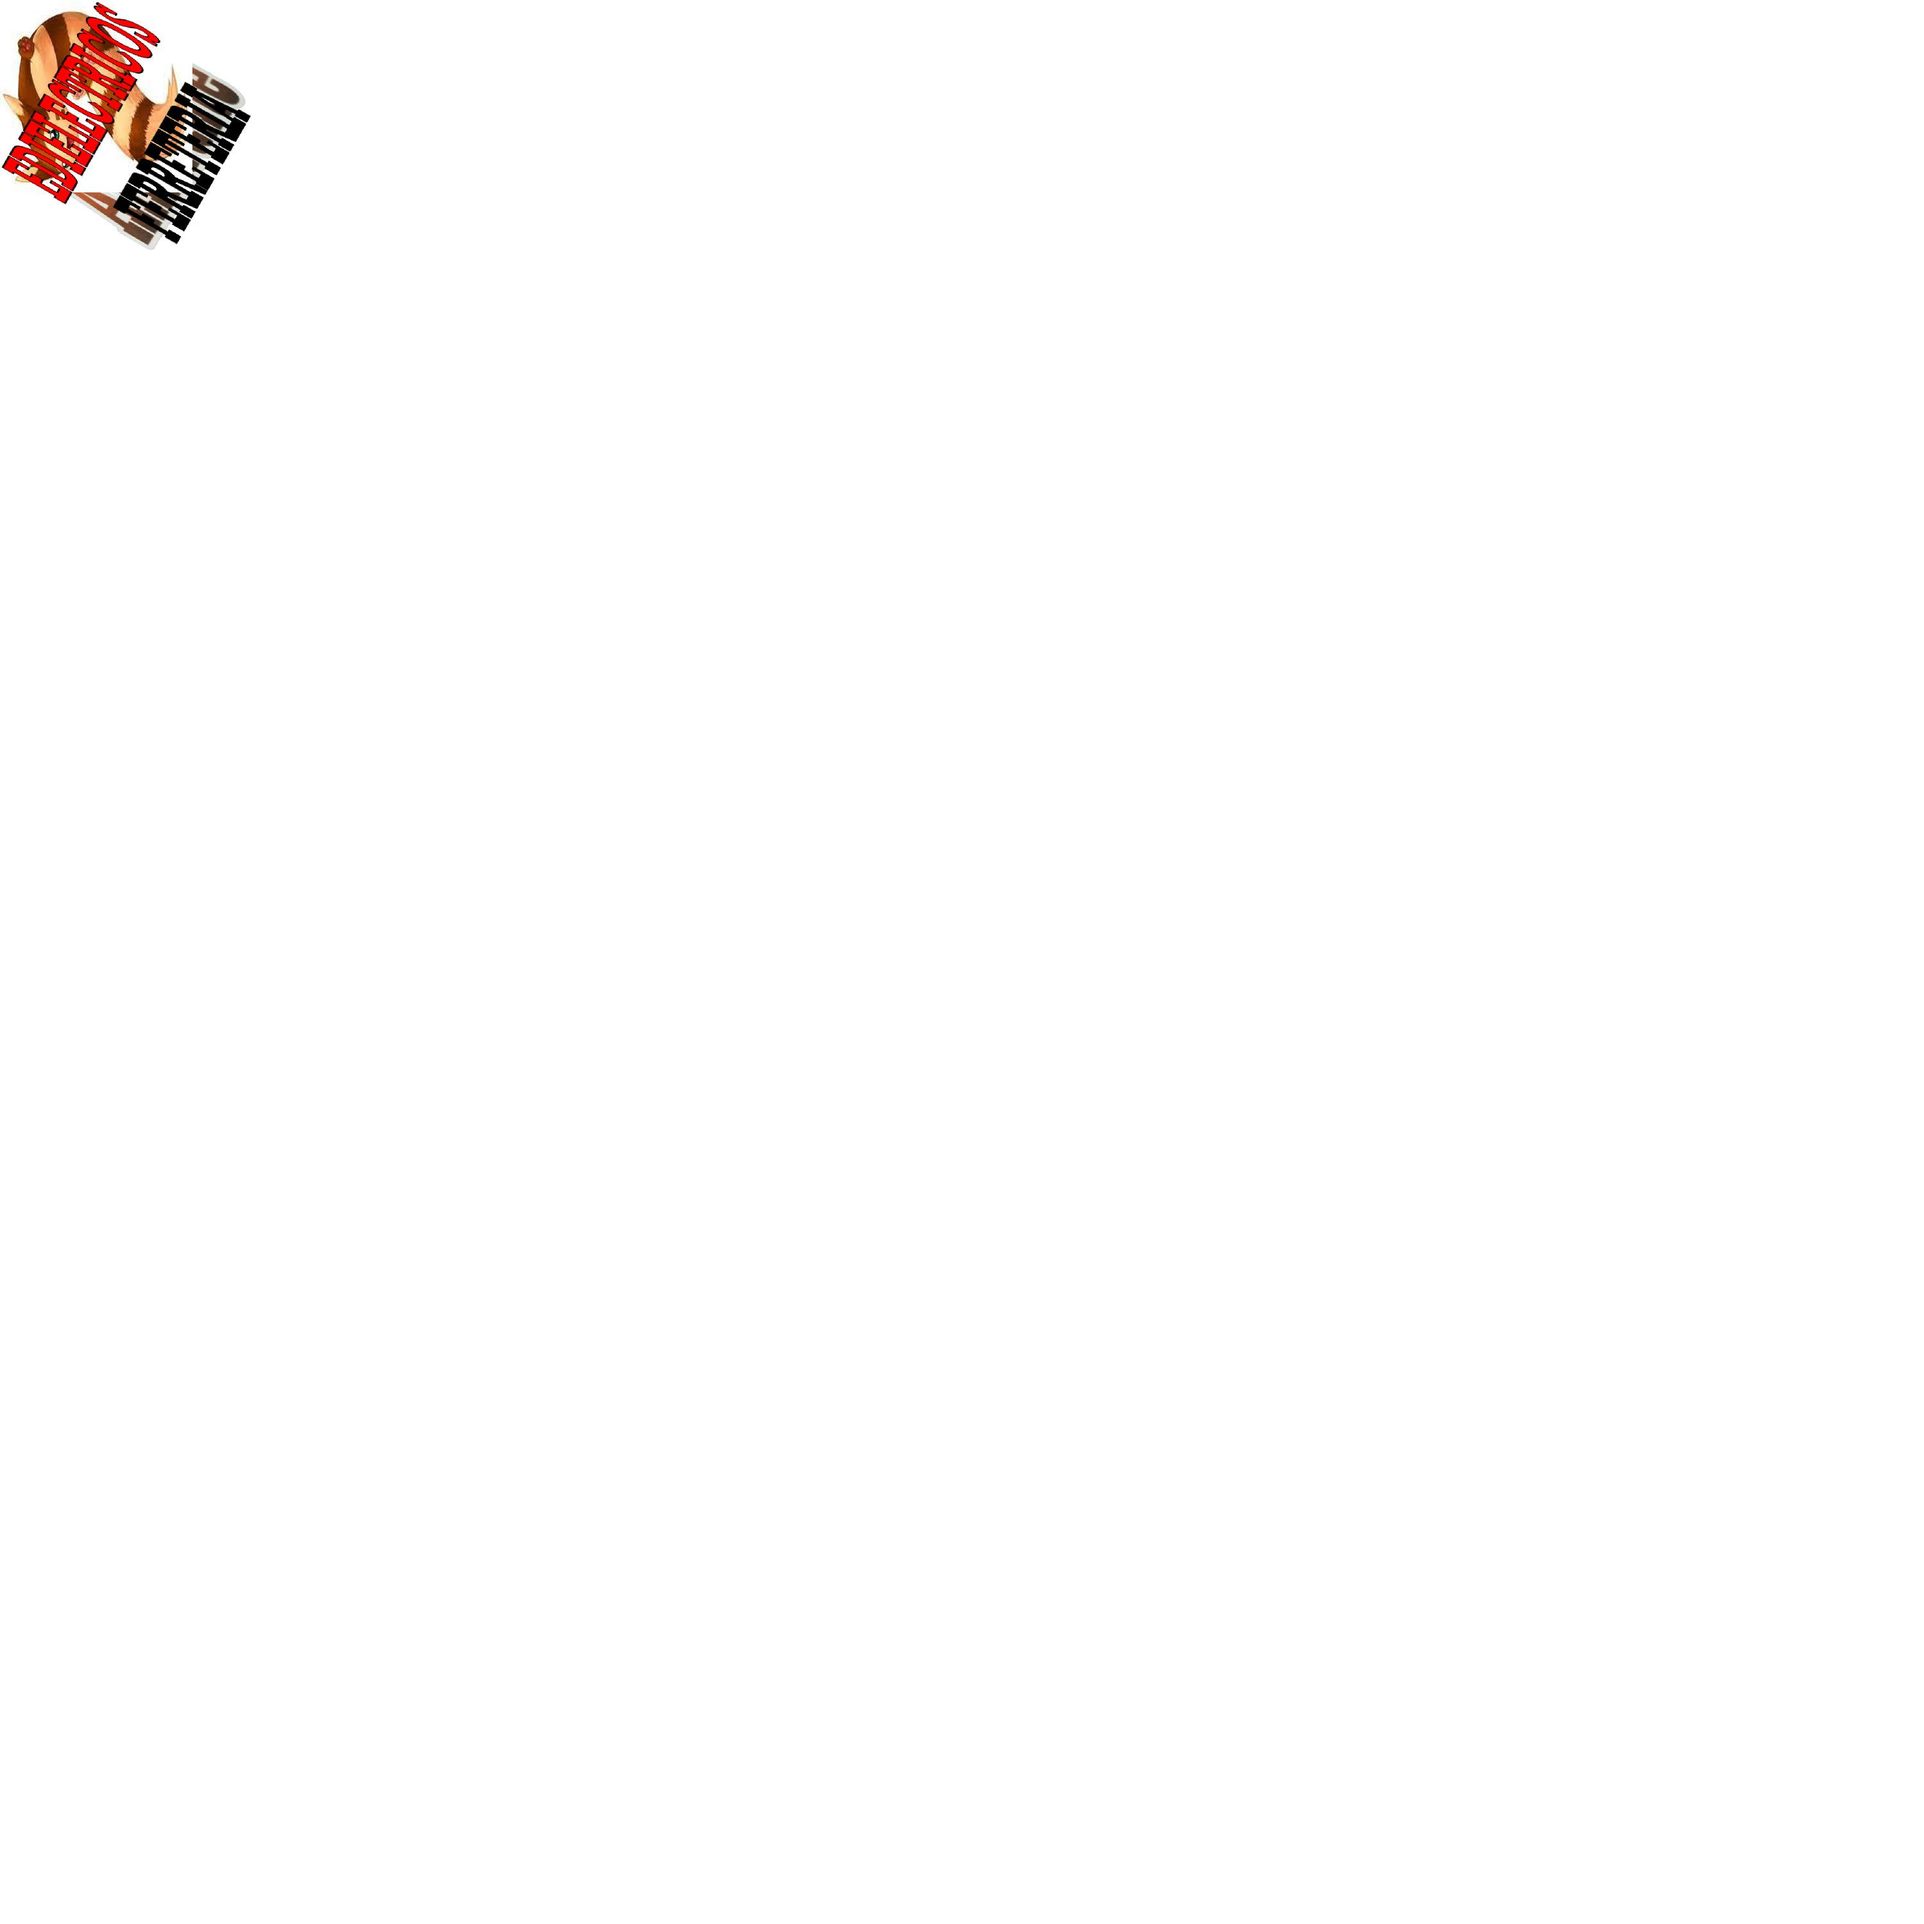
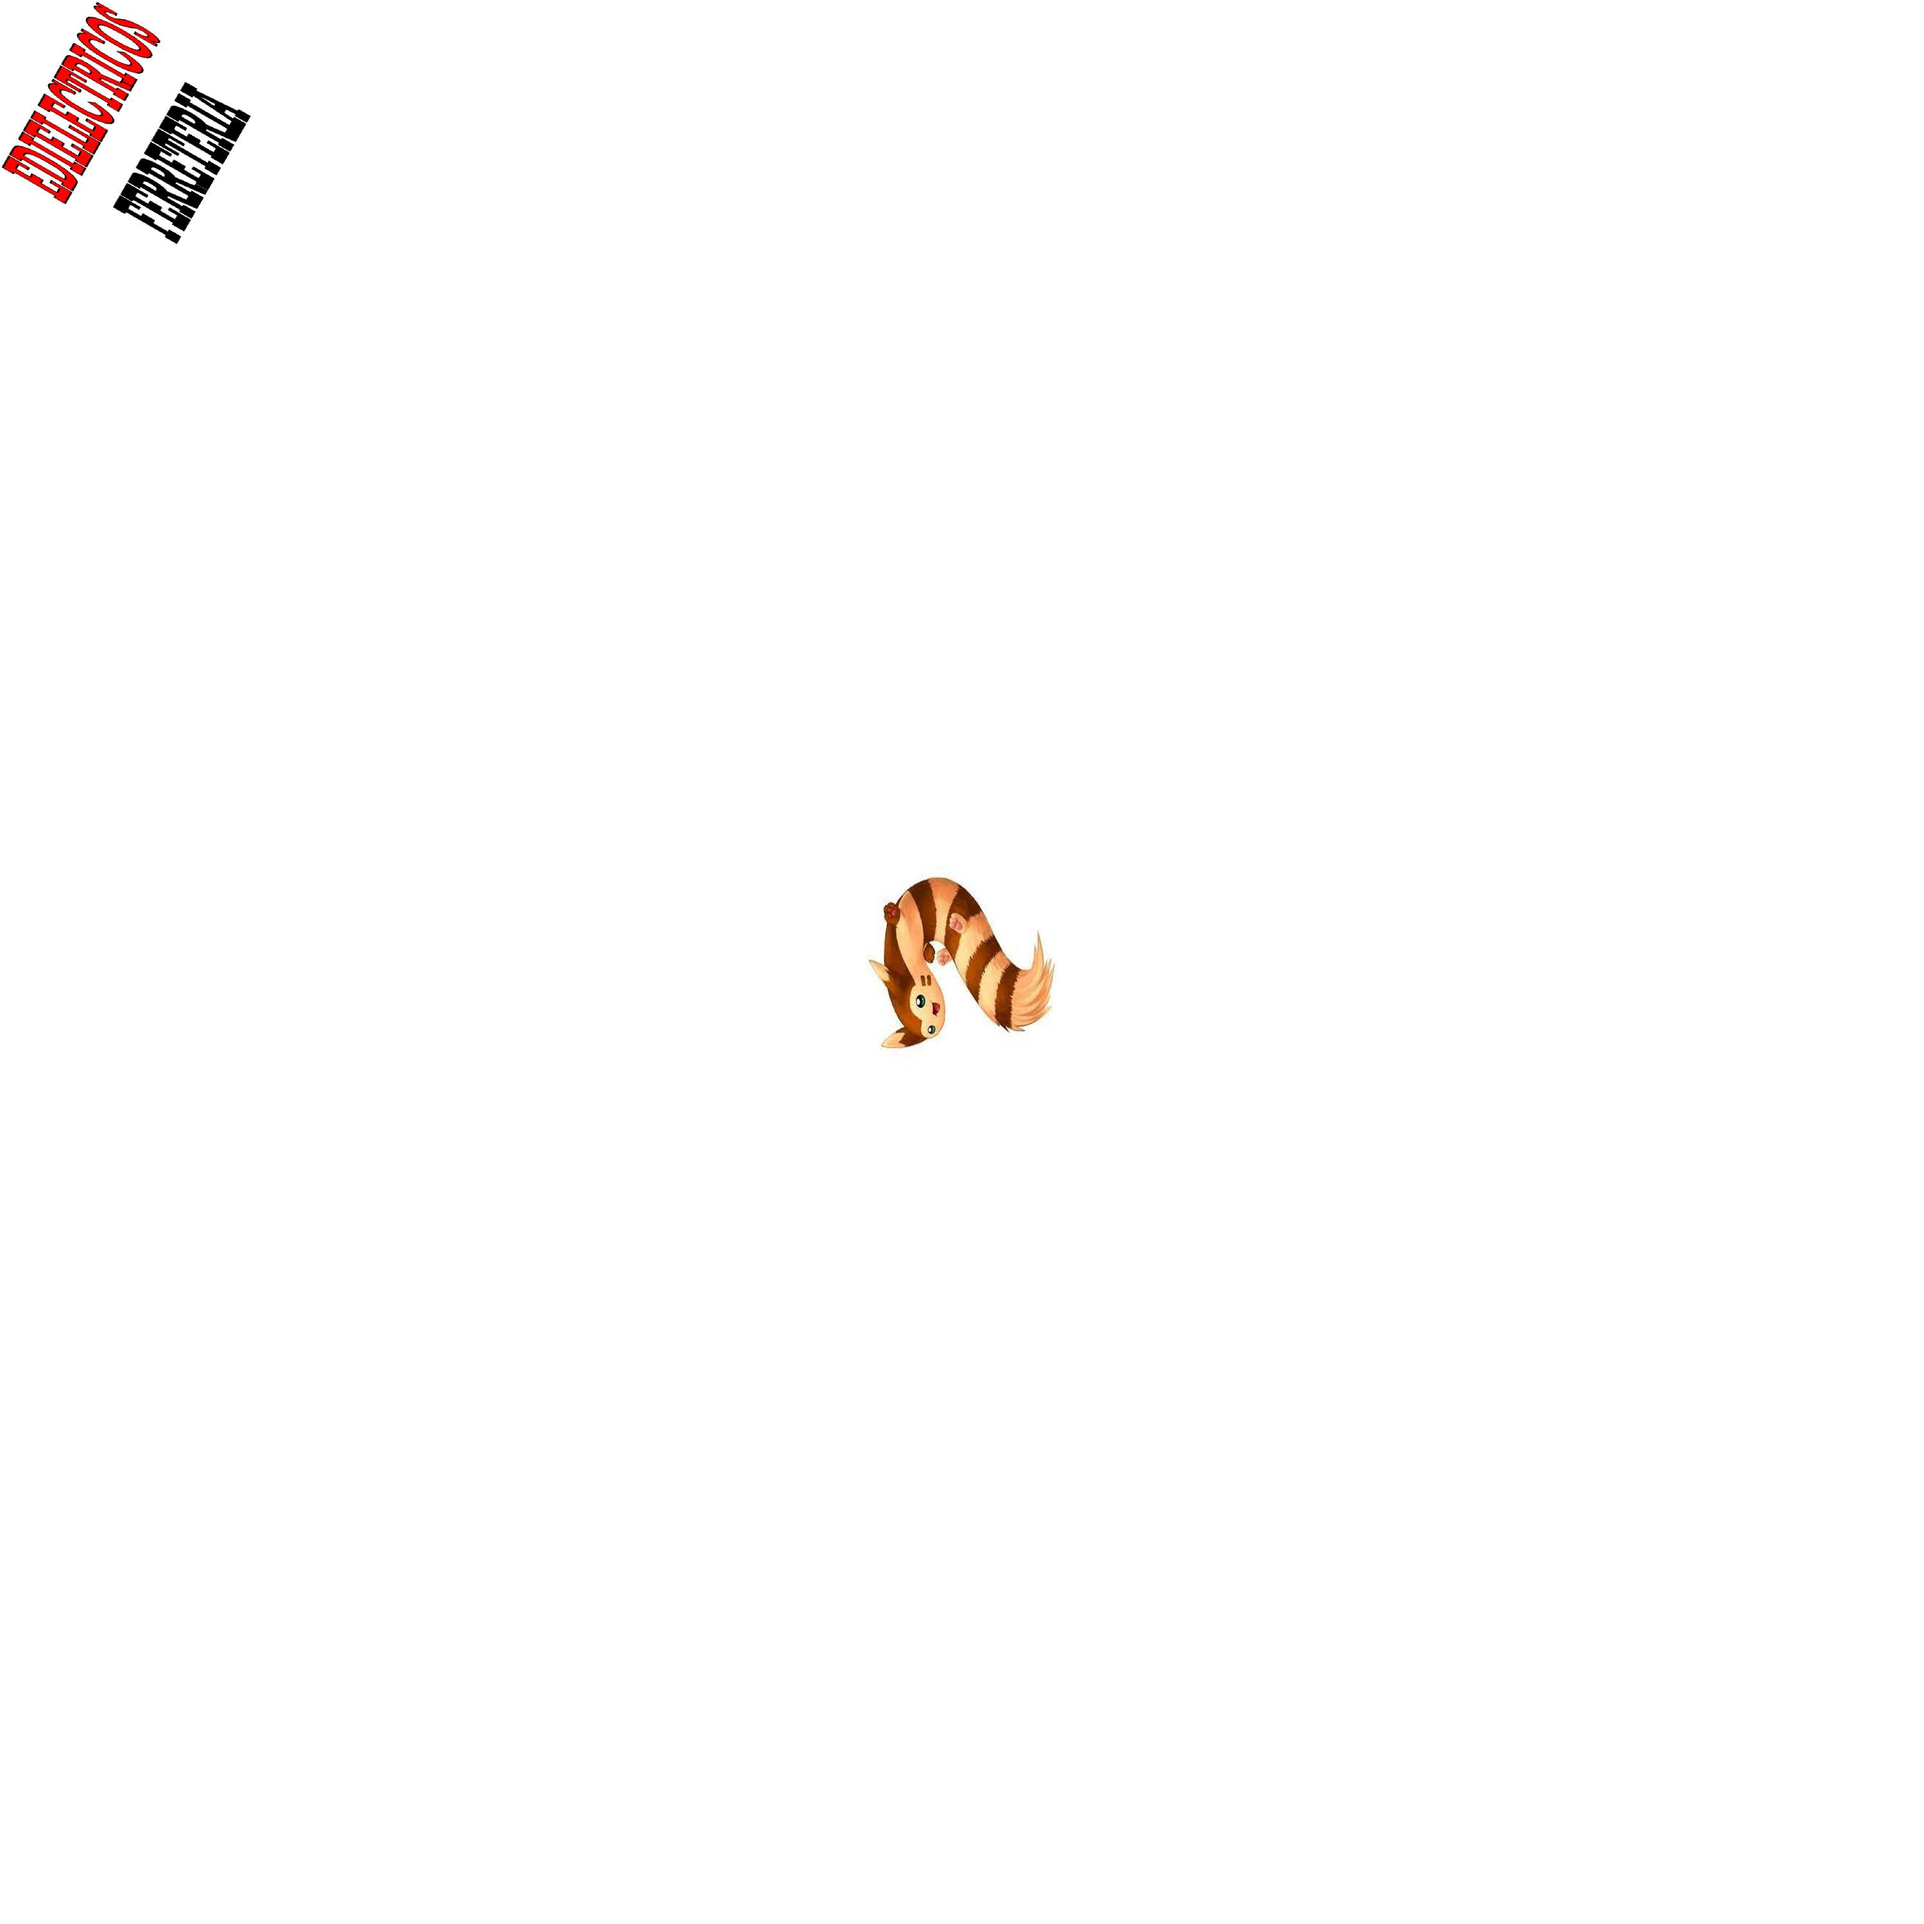
Posicionar centro imagen
Para el procesamiento de imágenes fijas hacemos mejoramos el que pueda posicionar la imagen en el centro de forma automática si así se desea

Changed region(s): [[0.0, 0.0, 0.124, 0.124], [0.434, 0.434, 0.558, 0.558]]

diff --git a/estados masivos/import json.py b/estados masivos/import json.py
@@ -2,11 +2,11 @@ import json
 from PIL import Image
 import os 
 
-# JSON image properties
-image_properties_json = '[{"name": "caminar.jpg", "width": 300, "high": 300, "rotate": 90, "x_position": 0, "y_position":0}, {"name": "LOGOS FERRETERIAS", "width": 300, "high": 300, "rotate": 60, "x_position": 0, "y_position":0}]'
-# List of Clients
+# *JSON image properties
+image_properties_json = '[{"name": "caminar.jpg", "width": 300, "high": 300, "rotate": 90, "x_position": 0, "y_position":0, "xCenter": true, "yCenter": true}, {"name": "LOGOS FERRETERIAS", "width": 300, "high": 300, "rotate": 60, "x_position": 0, "y_position":0, "xCenter" : false, "yCenter": false}]'
+# *List of Clients
 CLient = ['17','27','28','46','140','433']
-#Create a background image with the required size 
+# *Create a background image with the required size 
 size = width, height = 3000, 3000
 
 def search_file(folder, filename):
@@ -33,19 +33,22 @@ def properties(image,property):
     new_image.paste(png_image, (0, 0), mask=png_image.split()[3])
     return new_image
 
-background_image = Image.new('RGB',size, 'white')
+# !background_image = Image.new('RGB',size, 'white')
 I_properties = json.loads(image_properties_json)
 
 #For each Client crete a new image
 for cli in CLient:
     #apliying the properties to each image on the list of properties
-    for bla in I_properties:
-        #print(bla['name'])
-        if bla['name'].endswith('jpg') or bla['name'].endswith('png'):
-           image1 = properties(bla['name'],bla)
+    background_image = Image.new('RGB',size, 'white')
+    for ImageProperty in I_properties:
+        # *Variables for each image
+        x = ImageProperty['x_position']
+        y = ImageProperty['y_position']
+        if ImageProperty['name'].endswith('jpg') or ImageProperty['name'].endswith('png'):
+           image1 = properties(ImageProperty['name'],ImageProperty)
         else:
-            fil = search_file(bla['name'],cli)
-            image1 = properties(fil,bla)
+            fil = search_file(ImageProperty['name'],cli)
+            image1 = properties(fil,ImageProperty)
         # Load the PNG image and convert it to RGBA
         #png_image = image1.convert('RGBA')
 
@@ -55,7 +58,13 @@ for cli in CLient:
         # Paste the PNG image on the new RGBA image with the alpha channel as the mask
         #new_image.paste(png_image, (0, 0), mask=png_image.split()[3])
 
-        # Paste the new RGBA image with the PNG image on top of the background image
-        background_image.paste(image1, (bla['x_position'], bla['y_position']), image1)
+        # *Check if the RGBA image have to be at the center in the x position or in the y position
+        if ImageProperty['xCenter'] == True:
+            x = int(round((size[0] - ImageProperty['width'])/2))
+        if ImageProperty['yCenter'] == True:
+            y = int(round((size[1] - ImageProperty['high'])/2))
+
+        # * Paste the new RGBA image with the PNG image on top of the background image
+        background_image.paste(image1, (x, y), image1)
         #print('aqui si entro')
     background_image.save('pruebas/{}.jpg'.format(cli))
